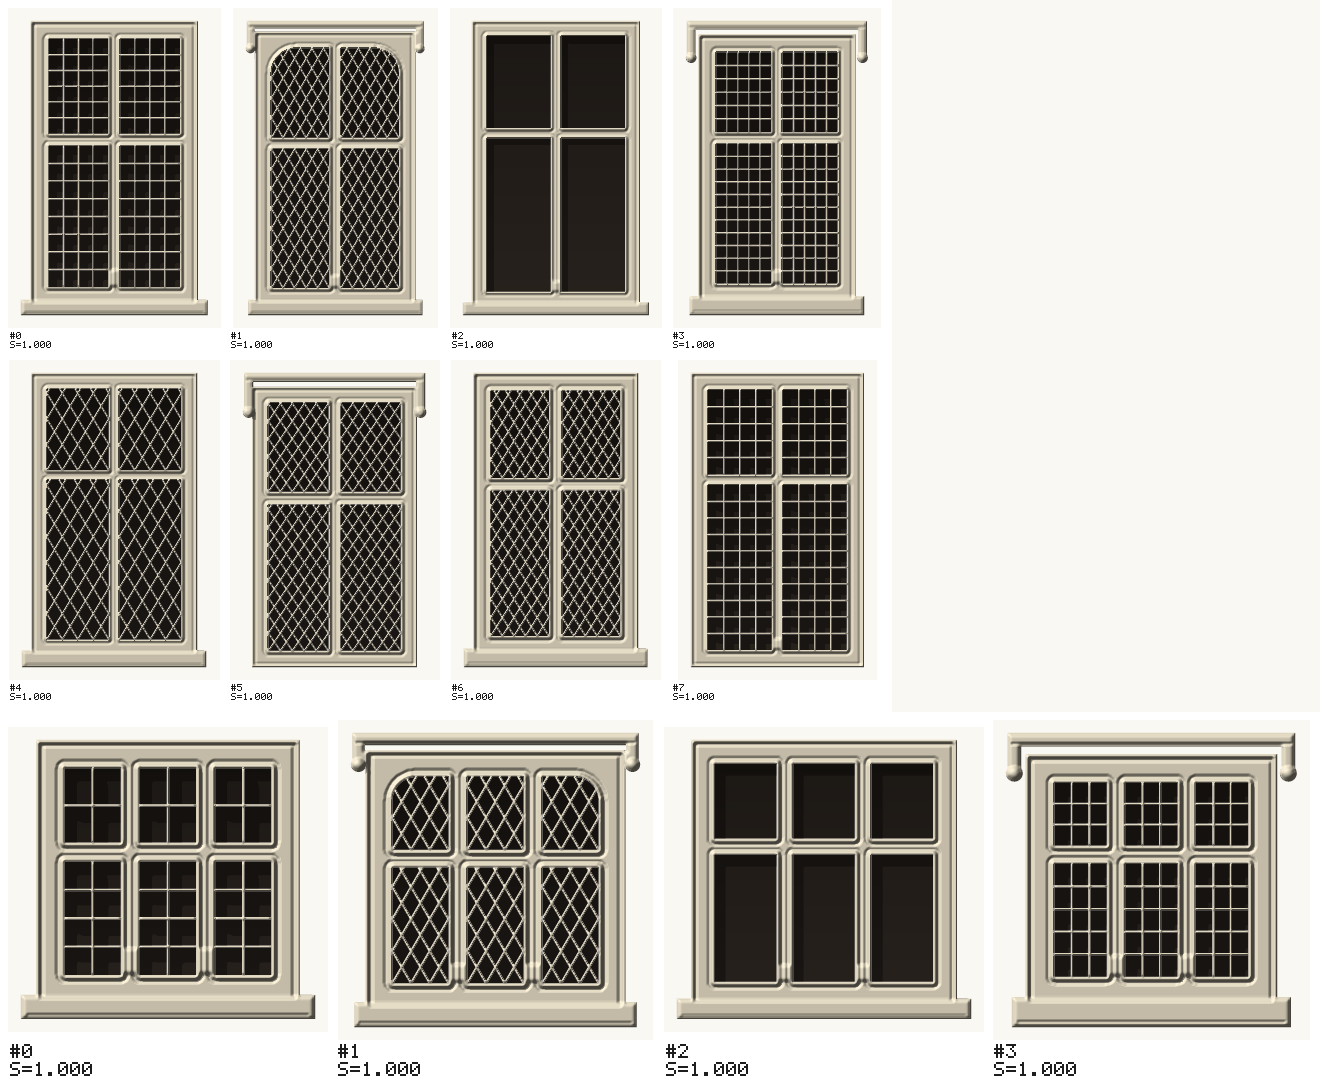
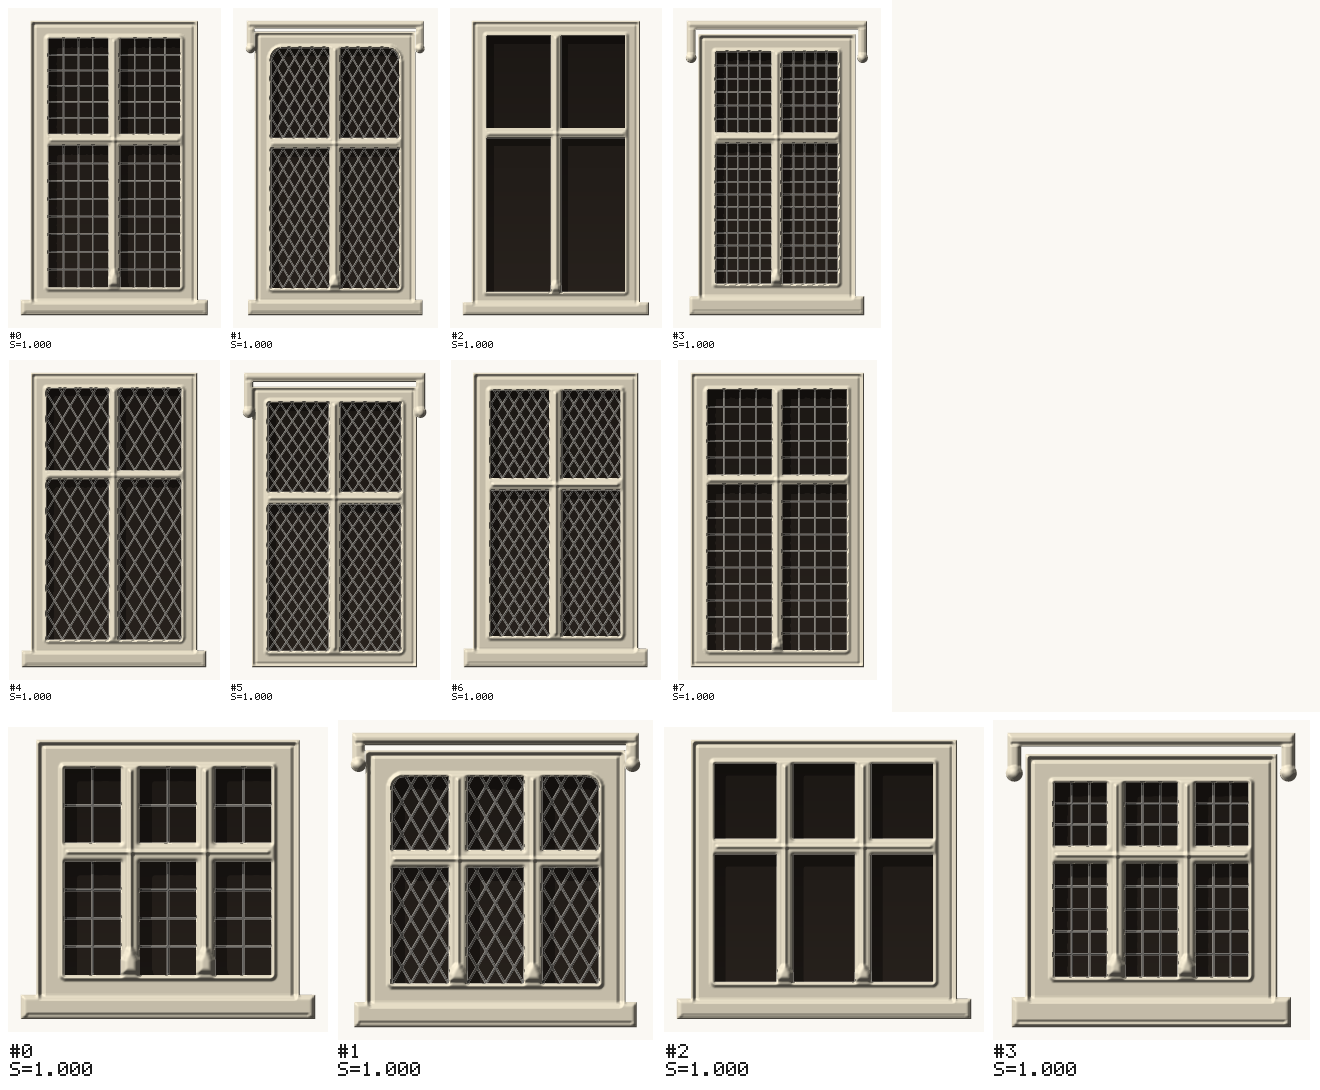
Croisées : meneaux en relief positif, vitres au fond (v0.7.1)
La croix et une baguette le long de la baie sont en saillie sur le
chambranle, avec un filet central ; les gorges autour des jours, qui
faisaient lire la croix en creux, sont retirées. Les plombs restent au fond
de la baie, en gris de plomb, sous l'ombre du chambranle. Arrondis des
angles hauts plus discrets. ADR-30 mise à jour.

diff --git a/crates/engine/src/mullion.rs b/crates/engine/src/mullion.rs
@@ -8,8 +8,10 @@
 //!   jours hauts sont plus courts que les jours bas. Une baie basse et
 //!   large n'a que des meneaux, une baie très haute deux traverses.
 //! - **Chambranle** mouluré : listel et gorge le long de l'arête
-//!   extérieure ; autour de chaque jour, une baguette puis une gorge, qui
-//!   laissent un listel plat au milieu des meneaux et de la traverse.
+//!   extérieure, baguette en saillie le long de la baie.
+//! - **Croix en saillie** sur le chambranle, avec un filet plus saillant
+//!   au milieu des meneaux et de la traverse ; les vitres et leurs plombs
+//!   sont au fond de la baie.
 //! - **Angles hauts** droits ou arrondis (quart de cercle) : la baie et ses
 //!   moulures suivent l'arrondi.
 //! - **Bases** prismatiques au pied des meneaux, où meurent les moulures.
@@ -220,7 +222,7 @@ pub fn generate_mullion(
     let rounded = rect_shape && style.round_top.unwrap_or_else(|| unif(&mut rng) < 0.4);
     let r_top = if rounded {
         let top_h = y_tr.last().map_or(bh, |y| ob.max.y - y - 0.5 * mt);
-        (light_w * unif_in(&mut rng, 0.3, 0.5)).min(0.6 * top_h)
+        (light_w * unif_in(&mut rng, 0.14, 0.24)).min(0.35 * top_h)
     } else {
         0.0
     };
@@ -256,35 +258,48 @@ pub fn generate_mullion(
     cancelled()?;
 
     // ------------------------------------------------------- chambranle
-    let p_frame = out.node("Chambranle et croisée");
-    let mut stone = vec![shape.clone()];
-    for l in &lights {
-        stone = subtract(&stone, l);
-    }
-    out.relief(&p_frame, 1, stone);
-
-    // moulures : arête extérieure (listel, gorge) et pourtour des jours
+    // Le chambranle est le plan de fond (niveau 1). La croix et la baguette
+    // qui borde la baie sont en saillie (niveau 2), le filet de la croix
+    // plus encore (niveau 3) : meneaux et traverses avancent, les vitres
+    // sont au fond de la baie.
+    let p_frame = out.node("Chambranle");
+    out.relief(&p_frame, 1, subtract(std::slice::from_ref(&shape), &bay));
     let p_mould = out.node("Moulures");
+    // arête extérieure : listel et gorge
     if let (Some(a), Some(b)) = (grow(&shape, -0.14 * f), grow(&shape, -0.26 * f)) {
         out.relief(&p_mould, 2, subtract(std::slice::from_ref(&shape), &a));
         out.creux(&p_mould, 1, subtract(&[a], &b));
     }
-    let (g1, g2) = (0.24 * m, 0.42 * m);
-    for l in &lights {
-        let (Some(a), Some(b)) = (grow(l, g1), grow(l, g2)) else {
-            continue;
-        };
-        out.relief(&p_mould, 2, subtract(std::slice::from_ref(&a), l));
-        out.creux(&p_mould, 1, subtract(&[b], &a));
+    // baguette le long de la baie, au nu de la croix
+    if let Some(a) = grow(&bay, 0.3 * m) {
+        out.relief(&p_mould, 2, subtract(std::slice::from_ref(&a), &bay));
     }
+    let p_cross = out.node("Croisée");
+    let mut cross = vec![bay.clone()];
+    for l in &lights {
+        cross = subtract(&cross, l);
+    }
+    out.relief(&p_cross, 2, cross);
+    // filet au milieu des meneaux et de la traverse
+    let wf = 0.32 * m;
+    let mut fillets = Vec::new();
+    for &x in &x_mul {
+        let r = rect(x - 0.5 * wf, big.min.y, x + 0.5 * wf, big.max.y);
+        fillets.extend(intersect_loop(std::slice::from_ref(&bay), &r));
+    }
+    for &y in &y_tr {
+        let r = rect(big.min.x, y - 0.5 * wf, big.max.x, y + 0.5 * wf);
+        fillets.extend(intersect_loop(std::slice::from_ref(&bay), &r));
+    }
+    out.relief(&p_cross, 3, fillets);
     cancelled()?;
 
-    // bases au pied des meneaux
+    // bases au pied des meneaux, devant le filet
     if rect_shape && !x_mul.is_empty() && unif(&mut rng) < 0.7 {
         let p_base = out.node("Bases");
         let hb = m * unif_in(&mut rng, 1.0, 1.5);
         let regs: Vec<Region> = x_mul.iter().map(|&x| base(x, ob.min.y, m, hb)).collect();
-        out.relief(&p_base, 2, regs);
+        out.relief(&p_base, 3, regs);
     }
 
     // ------------------------------------------------------------ jours

diff --git a/crates/io/src/raster.rs b/crates/io/src/raster.rs
@@ -164,6 +164,8 @@ const WALL: [u8; 3] = [222, 212, 190];
 /// Bois des vantaux (chêne grisé) et fer forgé (ADR-26).
 const WOOD: [u8; 3] = [146, 118, 88];
 const IRON: [u8; 3] = [64, 56, 50];
+/// Plombs des vitreries (ADR-30).
+const LEAD: [u8; 3] = [118, 116, 112];
 
 /// Ornement de fer (ferronnerie : niveaux 2 et plus) ?
 fn is_iron(d: &Design, o: &engine::Ornament) -> bool {
@@ -724,12 +726,19 @@ fn render_stone_layered(pm: &mut Pixmap, ds: &[&Design], v: &View, transparent: 
         || coverage(&doors, v, FillRule::Winding),
         || coverage(&glass_regs, v, FillRule::EvenOdd),
     );
+    let floor = -0.6 * u;
+    // plombs : au fond de la baie, à peine au-dessus du verre, gris de plomb
+    let mut lead_a = vec![0f32; if top_cov.is_empty() { 0 } else { n }];
     if !top_cov.is_empty() {
-        for (va, tc) in void_a.iter_mut().zip(&top_cov) {
-            *va *= 1.0 - tc;
+        for i in 0..n {
+            let tc = top_cov[i];
+            if tc > 0.0 && void_a[i] > 0.5 {
+                hmap[i] = floor + 0.08 * u;
+                lead_a[i] = tc;
+            }
+            void_a[i] *= 1.0 - tc;
         }
     }
-    let floor = -0.6 * u;
     for i in 0..n {
         if void_a[i] > 0.5 {
             hmap[i] = floor;
@@ -905,6 +914,9 @@ fn render_stone_layered(pm: &mut Pixmap, ds: &[&Design], v: &View, transparent: 
                     let mut base_c = STONE[k] as f64 * (1.0 - wa) + WALL[k] as f64 * wa;
                     base_c = base_c * (1.0 - bo) + WOOD[k] as f64 * grain * bo;
                     base_c = base_c * (1.0 - fe) + IRON[k] as f64 * fe;
+                    if let Some(&la) = lead_a.get(i) {
+                        base_c = base_c * (1.0 - la as f64) + LEAD[k] as f64 * la as f64;
+                    }
                     let c = (base_c * shade + 255.0 * spec * fe).min(255.0);
                     col[k] = col[k] * (1.0 - a_st) + c * a_st;
                 }

diff --git a/docs/DECISIONS.md b/docs/DECISIONS.md
@@ -719,15 +719,20 @@ l'arête extérieure du chambranle.
   jour), deux pour une baie très haute et étroite, une sinon, placée aux
   58–66 % de la hauteur : les jours hauts sont plus courts.
 - **Angles hauts arrondis** (`round_top` : oui, non, ou selon la seed avec
-  une chance sur 0,4) : quart de cercle de rayon 0,3 à 0,5 largeur de jour,
-  centre dans le point de construction. Seulement pour une forme
+  une chance sur 0,4) : quart de cercle de rayon 0,14 à 0,24 largeur de
+  jour (au plus 0,35 fois la hauteur des jours hauts ; v0.7.1, au lieu de
+  0,3 à 0,5, jugé trop prononcé), centre dans le point de construction. Seulement pour une forme
   rectangulaire ; les jours d'angle et leurs moulures suivent l'arrondi.
-- **Moulures** : listel (relief 2) et gorge (creux 1) le long de l'arête
-  extérieure ; autour de chaque jour, une baguette (dilatation de 0,24 m)
-  puis une gorge (jusqu'à 0,42 m), qui laissent un listel plat au milieu
-  du meneau et de la traverse.
+- **Reliefs (v0.7.1)** : meneaux et traverses sont en **relief positif**,
+  comme sur les relevés de Viollet-le-Duc, et les vitres au fond de la
+  baie. Le chambranle est le plan de fond (relief 1), avec listel (relief
+  2) et gorge (creux 1) le long de l'arête extérieure. La croix (relief 2)
+  et une baguette qui borde la baie (relief 2, largeur 0,3 m) avancent ;
+  un filet de 0,32 m au milieu des meneaux et de la traverse avance encore
+  (relief 3). La v0.7.0 taillait au contraire une gorge autour de chaque
+  jour, ce qui faisait lire la croix en creux.
 - **Bases** prismatiques au pied des meneaux (sept fois sur dix, forme
-  rectangulaire) : la moulure y meurt.
+  rectangulaire, relief 3) : le filet y meurt.
 - **Vitrerie** (plombs en relief 3) : losanges (55 %), petits carreaux
   (25 %) ou verre uni (20 %). Le pas est ajusté à la largeur de chaque jour
   et la grille y est centrée ; losanges de hauteur 1,45 à 1,75 fois leur
@@ -740,7 +745,9 @@ l'arête extérieure du chambranle.
   bases, d'appui ni de larmier.
 - **Rendu** : les reliefs de niveau 3 posés dans une baie (les plombs)
   passent devant le vide, dans le rendu pierre (`top_cov`) comme dans les
-  épures et le mode vitrail. Les portes n'ont pas de tels reliefs : leur
+  épures et le mode vitrail. En rendu pierre, ils restent au fond de la
+  baie (hauteur du vide + 0,08 u), en gris de plomb, et reçoivent l'ombre
+  du chambranle et de la croix (v0.7.1). Les portes n'ont pas de tels reliefs : leur
   rendu ne change pas.
 - **Déterminisme** : RNG ChaCha8 dérivé de la seed (sel `0x3E2E`) ; les
   génomes existants (sans `window = meneaux`) donnent le même résultat,

diff --git a/docs/PROGRESS.md b/docs/PROGRESS.md
@@ -120,6 +120,10 @@ Seeds dorées : `tests/golden/seeds.json` (test `engine/tests/golden.rs`).
     options `--meneaux`, `--croisee`, `--arrondi` de la ligne de commande ;
   - le rendu pierre et les épures montrent les plombs devant le vide des
     jours (planche `v07_croisees.png`).
+- v0.7.1 : croisées corrigées (ADR-30) : meneaux et traverse en relief
+  positif (croix et baguette en saillie, filet central), vitres et plombs
+  au fond de la baie, plombs gris ; arrondis des angles hauts plus
+  discrets (0,14 à 0,24 largeur de jour).
 - Mis de côté à la demande du commanditaire : le remplissage des formes
   libres (tracé à main levée).
 
